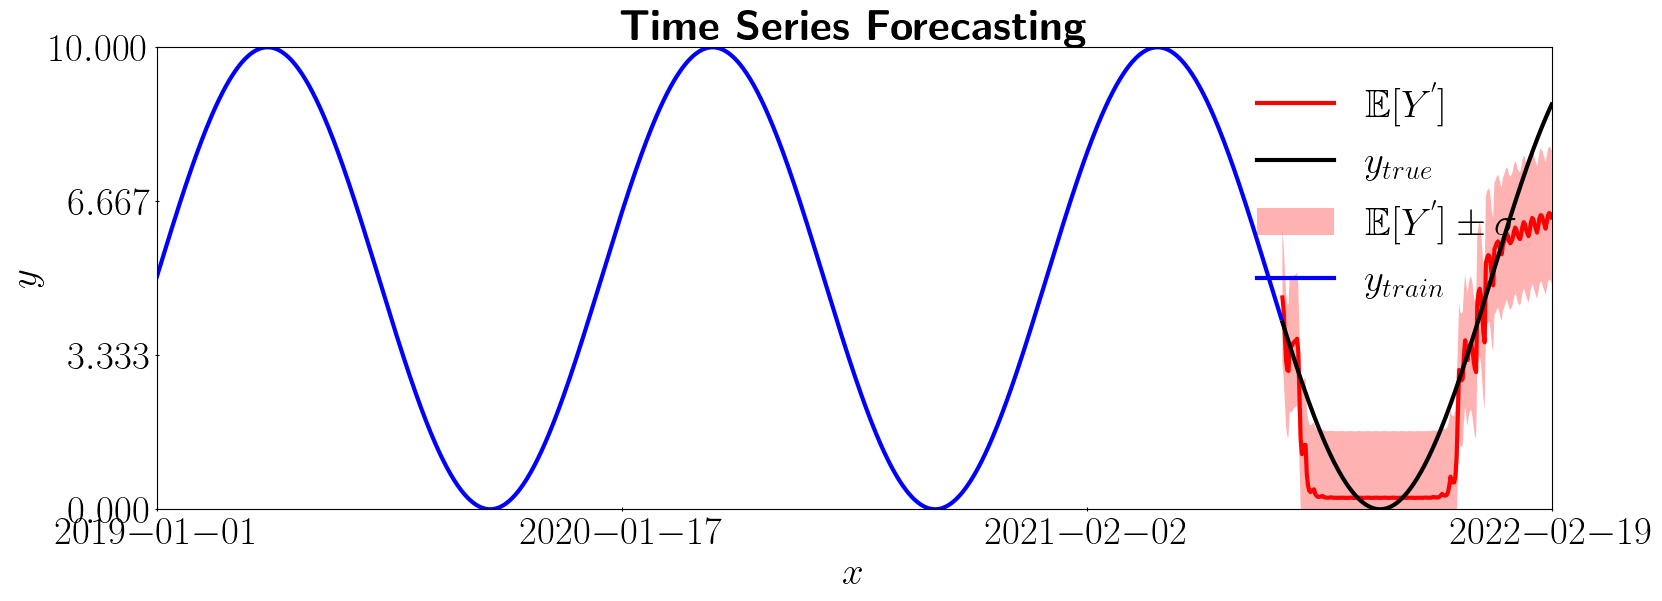
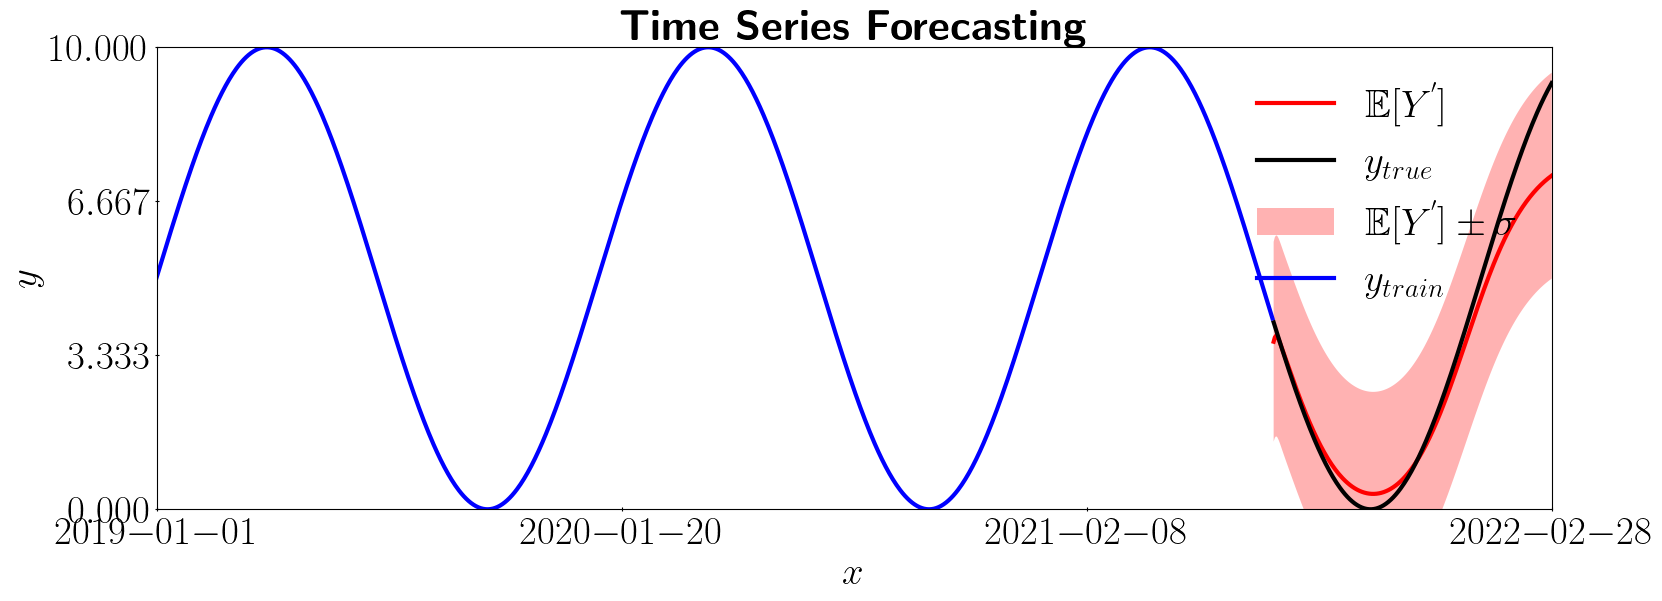
fixed bugs for batch size greater than 1

diff --git a/src/task_cpu.cpp b/src/task_cpu.cpp
@@ -3,7 +3,7 @@
 // Description:  CPU version for task command providing different tasks
 // Authors:      Luong-Ha Nguyen & James-A. Goulet
 // Created:      May 21, 2022
-// Updated:      September 16, 2022
+// Updated:      September 19, 2022
 // Contact:      luongha.nguyen@gmail.com & james.goulet@polymtl.ca
 // Copyright (c) 2022 Luong-Ha Nguyen & James-A. Goulet. Some rights reserved.
 ///////////////////////////////////////////////////////////////////////////////
@@ -485,8 +485,8 @@ void time_series_forecasting_cpu(Network &net, IndexOut &idx, NetState &state,
     if (train_mode) {
         for (int e = 0; e < n_epochs; e++) {
             if (e > 0) {
-                // Shuffle data
-                std::shuffle(data_idx.begin(), data_idx.end(), seed_e);
+                // // Shuffle data
+                // std::shuffle(data_idx.begin(), data_idx.end(), seed_e);
 
                 // Decay observation noise
                 decay_obs_noise(net.sigma_v, net.decay_factor_sigma_v,
@@ -808,6 +808,7 @@ void task_command_cpu(UserInput &user_input, SavePath &path)
 
         // Testing
         train_mode = false;
+        test_net.sigma_v = net.sigma_v;
         time_series_forecasting_cpu(test_net, test_idx, test_state, theta,
                                     test_db, user_input.num_epochs, path,
                                     train_mode);

diff --git a/src/activation_fun_cpu.cpp b/src/activation_fun_cpu.cpp
@@ -3,7 +3,7 @@
 // Description:  Activation function (CPU version)
 // Authors:      Luong-Ha Nguyen & James-A. Goulet
 // Created:      September 11, 2022
-// Updated:      September 11, 2022
+// Updated:      September 19, 2022
 // Contact:      luongha.nguyen@gmail.com & james.goulet@polymtl.ca
 // Copyright (c) 2022 Luong-Ha Nguyen & James-A. Goulet. Some rights reserved.
 ////////////////////////////////////////////////////////////////////////////////
@@ -549,6 +549,9 @@ void activate_hidden_states(Network &net, NetState &state, int j) {
     // Handle multiple input sequences from LSTM layer
     if (net.layers[j - 1] == net.layer_names.lstm) {
         ni = net.nodes[j - 1] * net.input_seq_len;
+    }
+    if (net.layers[j] == net.layer_names.lstm) {
+        no_B = no * B * net.input_seq_len;
     }
     if (net.activations[j] == net.act_names.tanh)  // tanh
     {

diff --git a/src/net_prop.cpp b/src/net_prop.cpp
@@ -3,7 +3,7 @@
 // Description:  Network properties
 // Authors:      Luong-Ha Nguyen & James-A. Goulet
 // Created:      December 29, 2021
-// Updated:      September 17, 2022
+// Updated:      September 19, 2022
 // Contact:      luongha.nguyen@gmail.com & james.goulet@polymtl.ca
 // Copyright (c) 2021 Luong-Ha Nguyen & James-A. Goulet. Some rights reserved.
 ////////////////////////////////////////////////////////////////////////////////
@@ -1040,7 +1040,7 @@ Param initialize_param(Network &net) {
         }
         // LSTM layer
         else if (net.layers[j] == net.layer_names.lstm) {
-            fan_in = net.nodes[j - 1] * net.nodes[j];
+            fan_in = net.nodes[j - 1] + net.nodes[j];
             fan_out = net.nodes[j];
 
             // Variance

diff --git a/include/struct_var.h b/include/struct_var.h
@@ -3,7 +3,7 @@
 // Description:  Header file for struct variable in TAGI
 // Authors:      Luong-Ha Nguyen & James-A. Goulet
 // Created:      April 20, 2022
-// Updated:      September 03, 2022
+// Updated:      September 19, 2022
 // Contact:      luongha.nguyen@gmail.com & james.goulet@polymtl.ca
 // Copyright (c) 2022 Luong-Ha Nguyen & James-A. Goulet. Some rights reserved.
 ///////////////////////////////////////////////////////////////////////////////
@@ -177,7 +177,7 @@ struct Network {
     int num_max_lstm_states = 0;
     unsigned int num_cpu_threads = 4;
     int num_gpu_threads = 16;
-    int min_operations = 0;
+    int min_operations = 4000;
     std::string device = "cpu";
 };
 

diff --git a/data/toy_time_series/data_generation.py b/data/toy_time_series/data_generation.py
@@ -112,7 +112,8 @@ class DataGeneration:
 def main():
     """Generate time series"""
     date_time = ["2019-01-01", "2022-03-01"]
-    col_name = ["sin", "week_sin", "week_cos", "year_sin", "year_cos"]
+    # col_name = ["sin", "week_sin", "week_cos", "year_sin", "year_cos"]
+    col_name = ["sin"]
     ratio = 0.8
 
     dg = DataGeneration(date_time)
